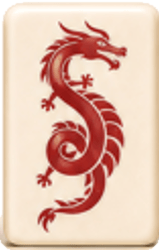
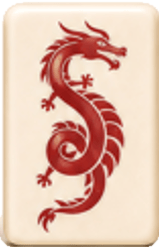
Trim the tile BELOW each tile out of the hero images
Maureen flagged the side slivers on 5 Oct and I trimmed left/right --
but only left/right. All three tiles still carried the top lip of the
tile beneath them on the cover: reading up from the bottom edge of the
dragon it went 215, 196, 167, 120, 120, 176, 213 -- a bright lip, a dark
seam, then the real tile face.

Topher spotted the same "more than one tile there" look in the video.

Same seam-finding as the sides, applied vertically, then the rounded
alpha re-applied. joker -4px, dragon -3px, two-wan -3px. Verified: on all
three the darkest pixel is now the tile's own edge rather than a seam
with something below it.

Claude-Session: https://claude.ai/code/session_019QUH5BBDdTXvzWVFCncufZ

Changed region(s): [[0.0252, 0.2834, 0.9811, 1.0], [0.2516, 0.085, 0.805, 0.3401], [0.0, 0.8502, 0.0252, 0.8785]]

diff --git a/index.html b/index.html
@@ -51,9 +51,9 @@
 <header class="act hero page-top">
   <div class="hero-tiles reveal" role="img"
        aria-label="The three Mahjong tiles from the cover of Ancient Game. Modern Leadership. — the Joker, the red dragon, and the two of characters">
-    <img class="t-cover" src="assets/tile-joker.png" alt="" width="165" height="253" fetchpriority="high">
-    <img class="t-cover" src="assets/tile-dragon.png" alt="" width="159" height="250" fetchpriority="high">
-    <img class="t-cover" src="assets/tile-two-wan.png" alt="" width="167" height="253" fetchpriority="high">
+    <img class="t-cover" src="assets/tile-joker.png" alt="" width="165" height="249" fetchpriority="high">
+    <img class="t-cover" src="assets/tile-dragon.png" alt="" width="159" height="247" fetchpriority="high">
+    <img class="t-cover" src="assets/tile-two-wan.png" alt="" width="167" height="250" fetchpriority="high">
   </div>
   <h1 class="reveal d1">Ancient Game.<br><span class="g">Modern Leadership.</span></h1>
   <p class="hook reveal d2">What can an ancient tile game teach today's leaders? <em>More than you might imagine.</em></p>
